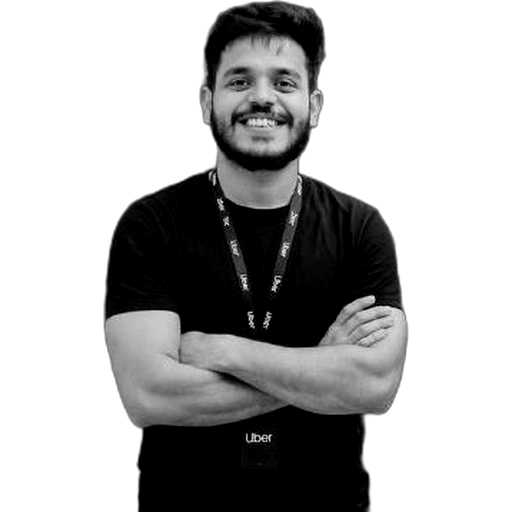
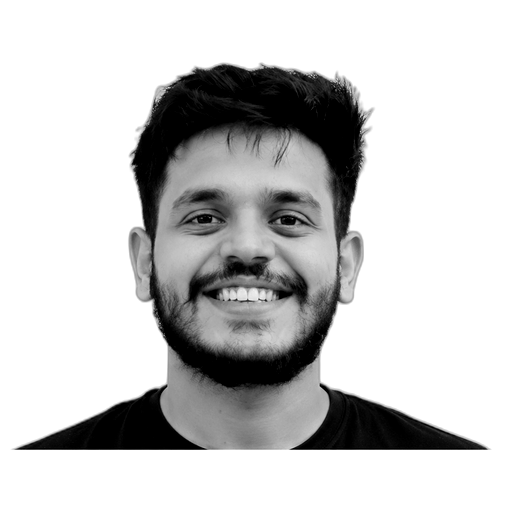
feat: build the ASCII portrait from a headshot
Swap the source photo for a plain-background headshot and add --trim-bottom
to prep_photo.py, which cuts the lower part of the subject after cropping.
A torso converts to a featureless block of the densest glyph and swallowed
almost half the portrait; trimming it lets the face fill the frame.

Also bust the camo image cache so the new assets are actually served.

diff --git a/scripts/prep_photo.py b/scripts/prep_photo.py
@@ -43,6 +43,10 @@ def main():
                    help="brightness multiplier (default: 1.0)")
     p.add_argument("--no-bg-removal", action="store_true",
                    help="skip rembg even if it is installed")
+    p.add_argument("--trim-bottom", type=float, default=0.0,
+                   help="fraction of the subject's height to cut from the "
+                        "bottom after cropping, e.g. 0.35 for head and "
+                        "shoulders only (default: 0.0)")
     p.add_argument("--no-crop", action="store_true",
                    help="keep the original framing instead of cropping to "
                         "the subject after background removal")
@@ -72,6 +76,13 @@ def main():
             lambda p: 255 if p > 25 else 0)
         box = mask.getbbox()
         if box:
+            if args.trim_bottom:
+                # Drop the lower part of the subject so the face fills the
+                # frame instead of sharing it with a torso, which converts to
+                # a featureless block of the densest glyph.
+                left, top, right, bottom = box
+                bottom = top + int((bottom - top) * (1 - args.trim_bottom))
+                box = (left, top, right, max(bottom, top + 1))
             img = img.crop(box)
             edge = max(img.size)
             img = ImageOps.pad(img, (edge, edge), color=(255, 255, 255),

diff --git a/README.md b/README.md
@@ -3,15 +3,15 @@
 <table>
 <tr>
 <td valign="top" align="center">
-  <img src="assets/portrait.svg" alt="ASCII portrait of Shubham Nayak" width="440">
+  <img src="assets/portrait.svg?v=3" alt="ASCII portrait of Shubham Nayak" width="440">
 </td>
 <td valign="top" align="center">
-  <img src="assets/infocard.svg" alt="Profile info card" width="520">
+  <img src="assets/infocard.svg?v=3" alt="Profile info card" width="520">
 </td>
 </tr>
 </table>
 
-<img src="assets/heatmap.svg" alt="Contribution heatmap" width="980">
+<img src="assets/heatmap.svg?v=3" alt="Contribution heatmap" width="980">
 
 </div>
 
